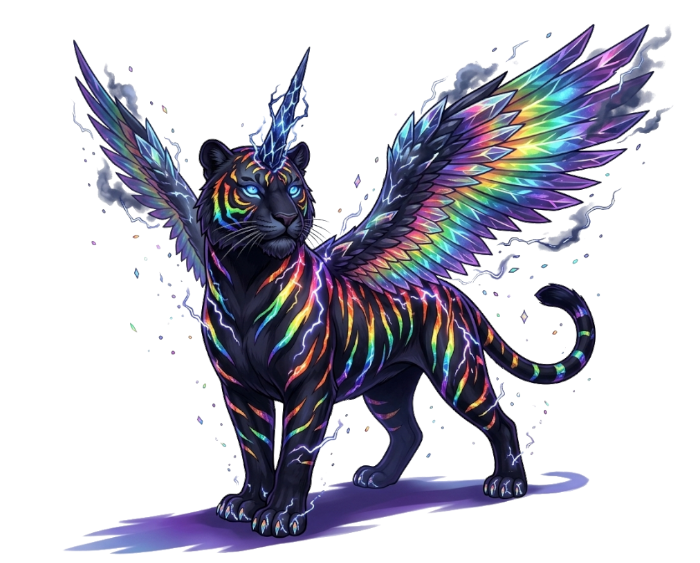
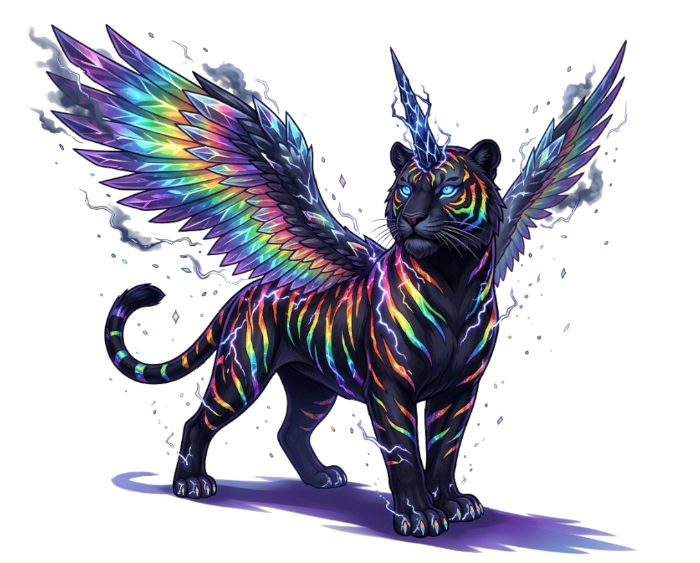
End bonus

diff --git a/GameHub/creatures.js b/GameHub/creatures.js
@@ -2358,6 +2358,12 @@ async function loadVirusProgress() {
       last_level:        typeof result.last_level === 'number' ? result.last_level : 0,
       task_completed_at: result.task_completed_at || null
     };
+    // Vollendungs-Bonus einfordern (idempotent, Server-Guard).
+    // Läuft auch als Backfill für Späteinsteiger, die schon vor Migration 0058
+    // vollendet hatten. Ergebnis wird von showVirusCompletionAnimation ausgelesen.
+    if (window.__virusProgress.task_completed_at) {
+      try { await claimEinhornkatzeCompletionBonus(); } catch (e) {}
+    }
     return window.__virusProgress;
   } catch (e) {
     console.warn('[creatures] loadVirusProgress failed:', e.message);
@@ -2365,6 +2371,51 @@ async function loadVirusProgress() {
   }
 }
 window.loadVirusProgress = loadVirusProgress;
+
+/* Vollendungs-Bonus für die Einhornkatze (2000 Coins + 200 Kristalle).
+   Server (claim_einhornkatze_completion_bonus) prüft growth ≥ 100 und
+   ist idempotent per Grant-Marker-Tabelle. Nach frischer Ausschüttung
+   holt der Client den shop_state via loadServerShop nach.
+   Ergebnis in window.__einhornkatzeCompletionBonus:
+     { justGranted: true|false, coins: 2000, kristalle: 200 }
+   oder null bei Fehler / noch nicht vollendet. */
+async function claimEinhornkatzeCompletionBonus() {
+  window.__einhornkatzeCompletionBonus = window.__einhornkatzeCompletionBonus || null;
+  if (typeof window.isLoggedIn !== 'function' || !window.isLoggedIn()) return null;
+  const token = window.__accessToken;
+  if (!token || !window.SUPABASE_URL) return null;
+  try {
+    const res = await fetch(`${window.SUPABASE_URL}/rest/v1/rpc/claim_einhornkatze_completion_bonus`, {
+      method: 'POST',
+      headers: {
+        apikey: window.SUPABASE_ANON_KEY,
+        Authorization: `Bearer ${token}`,
+        'Content-Type': 'application/json',
+        Accept: 'application/json'
+      },
+      body: '{}'
+    });
+    if (!res.ok) throw new Error(`claim_einhornkatze_completion_bonus ${res.status}`);
+    const result = await res.json();
+    if (!result?.ok) return null;
+    const justGranted = result.granted === true;
+    window.__einhornkatzeCompletionBonus = {
+      justGranted,
+      coins:     typeof result.coins === 'number' ? result.coins : 2000,
+      kristalle: typeof result.kristalle === 'number' ? result.kristalle : 200
+    };
+    // Frisch ausgeschüttet → shop_state nachziehen, damit UI die neuen
+    // Coins/Kristalle direkt anzeigt (bankedCoins wandert in getTotalCoins).
+    if (justGranted && typeof window.loadServerShop === 'function') {
+      try { await window.loadServerShop(); } catch (e) {}
+    }
+    return window.__einhornkatzeCompletionBonus;
+  } catch (e) {
+    console.warn('[creatures] claimEinhornkatzeCompletionBonus failed:', e.message);
+    return null;
+  }
+}
+window.claimEinhornkatzeCompletionBonus = claimEinhornkatzeCompletionBonus;
 
 function renderBoostIndicators(containerId, gameId) {
   const el = document.getElementById(containerId);

diff --git a/GameHub/script.js b/GameHub/script.js
@@ -5538,6 +5538,17 @@ function showVirusCompletionAnimation(variant) {
         max-width:440px;line-height:1.4;
         animation:_vc-appear 0.9s 0.7s both;
       }
+      ._vc-bonus {
+        display:flex;gap:22px;align-items:center;justify-content:center;
+        padding:12px 22px;margin-top:6px;
+        background:linear-gradient(90deg,rgba(255,221,136,0.18),rgba(255,133,193,0.18),rgba(180,119,255,0.18));
+        border:1px solid rgba(255,221,136,0.55);border-radius:999px;
+        font-family:Cinzel,serif;font-size:1.05rem;color:#fff5d6;
+        text-shadow:0 0 12px rgba(255,221,136,0.55);
+        animation:_vc-appear 0.9s 1.0s both;
+      }
+      ._vc-bonus b { font-weight:800;letter-spacing:0.04em; }
+      ._vc-bonus span { display:inline-flex;align-items:center;gap:8px; }
       ._vc-particle { position:fixed;font-size:2.0rem;pointer-events:none;animation:_vc-particles 2.4s ease-out both; }
       #_vc-close {
         position:absolute;bottom:36px;padding:13px 34px;font-family:Cinzel,serif;font-size:1rem;font-weight:800;
@@ -5557,6 +5568,11 @@ function showVirusCompletionAnimation(variant) {
       <div class="creature-slot"><img src="${endImg}" alt="" style="width:100%;height:100%;object-fit:contain;"></div>
       <div class="_vc-title">${escapeHtml(titleText)}</div>
       <div class="_vc-sub">${escapeHtml(subText)}</div>
+      <div class="_vc-bonus">
+        <span>🎁 <b>Bonus:</b></span>
+        <span>🪙 <b>+2000</b></span>
+        <span>💎 <b>+200</b></span>
+      </div>
     </div>
     <button id="_vc-close">Weiter →</button>
   `;

diff --git a/GameHub/index.html b/GameHub/index.html
@@ -290,8 +290,8 @@
   <script src="../avatars.js?v=20260724b"></script>
 
   <script src="config.js?v=20260724b"></script>
-  <script src="creatures.js?v=20260724b"></script>
-  <script src="script.js?v=20260724b"></script>
+  <script src="creatures.js?v=20260724c"></script>
+  <script src="script.js?v=20260724c"></script>
   <script>
     // Hub-spezifischer Code
     // Atari1 · Enter 4-8-2-6
